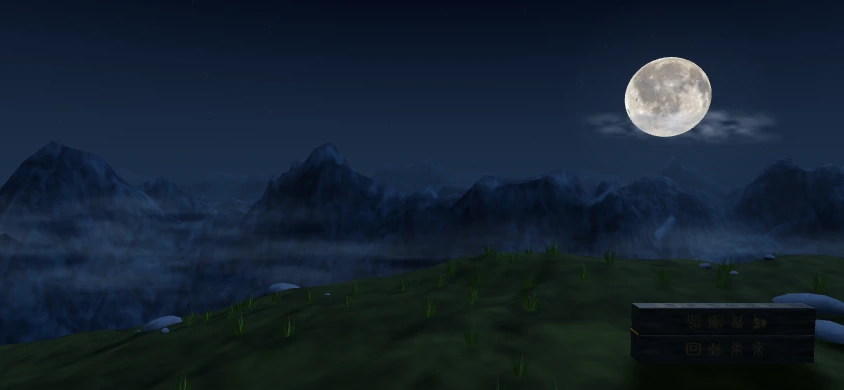
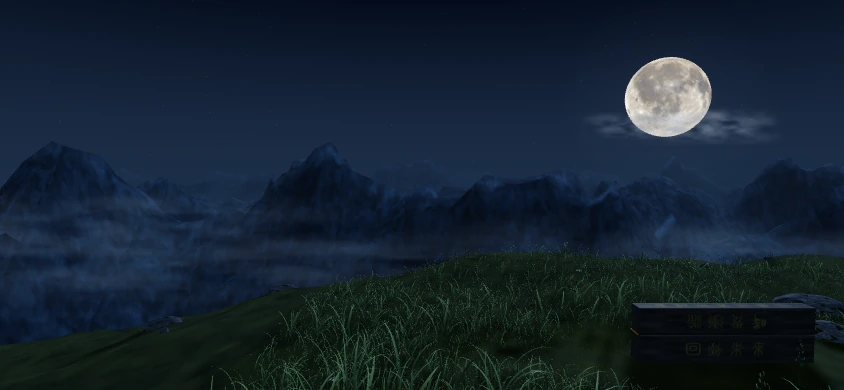
石头特效优化

diff --git a/src/scene/rock-surface.ts b/src/scene/rock-surface.ts
@@ -1,0 +1,143 @@
+import * as THREE from "three";
+import { mergeVertices } from "three/addons/utils/BufferGeometryUtils.js";
+import type { Initialization } from "./initialization";
+import { fbm, noise } from "./terrain-math.ts";
+
+/** 参考风化岩块的宽断面与不规则缺口；仅向旧凸包内部雕刻，保留原有落点和避让范围。 */
+export async function createWeatheredRockGeometry(envelope: THREE.BufferGeometry, init: Initialization) {
+  init.phase = "weathered-rock-geometry";
+  const hull = envelope.index ? envelope.toNonIndexed() : envelope.clone();
+  const hp = hull.attributes.position;
+  const planes: THREE.Plane[] = [];
+  const a = new THREE.Vector3(), b = new THREE.Vector3(), c = new THREE.Vector3();
+  for (let i = 0; i < hp.count; i += 3) {
+    a.fromBufferAttribute(hp, i); b.fromBufferAttribute(hp, i + 1); c.fromBufferAttribute(hp, i + 2);
+    const plane = new THREE.Plane().setFromCoplanarPoints(a, b, c);
+    if (plane.constant > 0) plane.negate();
+    planes.push(plane);
+  }
+  hull.dispose();
+  // 几何生成会主动让出主线程，半成品也提前登记，取消初始化时不会遗留缓冲。
+  const source = init.track(new THREE.IcosahedronGeometry(1, 7));
+  const p = source.attributes.position;
+  const direction = new THREE.Vector3();
+  // 斜切面打破卵石轮廓；底部不额外削薄，原先埋入草坡的接触关系保持稳定。
+  const cuts = [new THREE.Plane(new THREE.Vector3(.32, 1, .17).normalize(), -.76),
+    new THREE.Plane(new THREE.Vector3(1, .16, -.31).normalize(), -.83),
+    new THREE.Plane(new THREE.Vector3(-.42, .4, 1).normalize(), -.81)];
+  const carvingPlanes = [...planes, ...cuts];
+  for (let i = 0; i < p.count; i++) {
+    if (i % 32 === 0) { const pause = init.checkpoint(); if (pause) await pause; }
+    direction.fromBufferAttribute(p, i).normalize();
+    let radius = 1.1;
+    for (const plane of carvingPlanes) {
+      const dot = plane.normal.dot(direction);
+      if (dot > 1e-6) radius = Math.min(radius, -plane.constant / dot);
+    }
+    // 浅层起伏只侵蚀表面，不增加轮廓外伸，也不制造密集尖刺。
+    const wear = (fbm(direction.x * 5.8 + direction.y * 2.1 + 21,
+      direction.z * 5.8 - direction.y * 3.4 + 9) - .25) * .065;
+    radius *= 1 - Math.max(0, wear);
+    p.setXYZ(i, direction.x * radius, direction.y * radius, direction.z * radius);
+  }
+  source.deleteAttribute("normal");
+  source.deleteAttribute("uv");
+  const geometry = mergeVertices(source);
+  init.release(source);
+  geometry.computeVertexNormals();
+  return geometry;
+}
+
+/** 无光照的岩面色素与高度：灰色矿物、破碎浅斑、细裂缝、稀疏暗橄榄苔藓共用一张贴图。 */
+export async function createRockSurface(init: Initialization) {
+  init.phase = "texture-weathered-rock";
+  const size = 512, pixels = new Uint8Array(size * size * 4);
+  for (let y = 0; y < size; y++) {
+    const pause = init.checkpoint(); if (pause) await pause;
+    for (let x = 0; x < size; x++) {
+      // 周期域混合使三向投影重复时首尾相接；高度与颜色分离，浅色矿物不会自动变成凸包。
+      const sample = (scale: number, offset = 0) => {
+        const u = x / (size - 1), v = y / (size - 1);
+        const sx = u * u * (3 - 2 * u), sy = v * v * (3 - 2 * v);
+        const top = noise(u * scale + offset, v * scale + offset) * (1 - sx)
+          + noise((u - 1) * scale + offset, v * scale + offset) * sx;
+        const bottom = noise(u * scale + offset, (v - 1) * scale + offset) * (1 - sx)
+          + noise((u - 1) * scale + offset, (v - 1) * scale + offset) * sx;
+        return top * (1 - sy) + bottom * sy;
+      };
+      const broad = sample(5, 7), medium = sample(22, 29), grain = sample(130, 51);
+      const warp = sample(12, 91);
+      const seam = Math.abs(Math.sin((x / (size - 1) * 6 + y / (size - 1) * 4) * Math.PI
+        + (warp - .5) * 4));
+      const crack = Math.max(0, 1 - seam / .085) * (.35 + medium * .65);
+      const mineral = THREE.MathUtils.smoothstep(medium + (grain - .5) * .38, .53, .72);
+      const moss = THREE.MathUtils.smoothstep(broad - medium * .24, .55, .72);
+      const crystal = THREE.MathUtils.smoothstep(grain, .7, .88);
+      const base = 70 + broad * 30 + medium * 20 + grain * 20 + mineral * 24 + crystal * 40 - crack * 28;
+      const i = (y * size + x) * 4;
+      // 中性灰由实时冷月光染色；苔藓低饱和且较暗，不在夜色中泛亮绿。
+      pixels[i] = THREE.MathUtils.lerp(base * .97, 42 + grain * 18, moss);
+      pixels[i + 1] = THREE.MathUtils.lerp(base, 48 + grain * 20, moss);
+      pixels[i + 2] = THREE.MathUtils.lerp(base * 1.02, 29 + grain * 13, moss);
+      pixels[i + 3] = Math.round(THREE.MathUtils.clamp(.47 + (medium - .5) * .25
+        + (grain - .5) * .25 + crystal * .04 - crack * .22 + moss * .06, 0, 1) * 255);
+    }
+  }
+  const texture = init.track(new THREE.DataTexture(pixels, size, size));
+  texture.colorSpace = THREE.SRGBColorSpace;
+  texture.wrapS = texture.wrapT = THREE.RepeatWrapping;
+  texture.magFilter = THREE.LinearFilter;
+  texture.minFilter = THREE.LinearMipmapLinearFilter;
+  texture.generateMipmaps = true;
+  texture.anisotropy = 4;
+  texture.needsUpdate = true;
+  const material = init.track(new THREE.MeshStandardMaterial({
+    map: texture, bumpMap: texture, bumpScale: .055, roughness: .94, metalness: 0,
+  }));
+  material.name = "weathered-rock";
+  const depth = init.track(new THREE.MeshDepthMaterial({ depthPacking: THREE.RGBADepthPacking }));
+  // 位置哈希提供每块石头独立的纹理偏移与轻微缺损；不消耗布局随机数，响应式切换也不跳变。
+  const vary = `varying vec3 vRockPoint; varying vec3 vRockNormal; varying float vRockSeed; varying float vRockScale;\n`;
+  const deform = `
+    float rockSeed = fract(sin(dot(instanceMatrix[3].xz, vec2(12.9898, 78.233))) * 43758.5453);
+    float rockWear = .055 * rockSeed * pow(max(0.0, dot(normalize(position), normalize(vec3(rockSeed - .5, .7, .4)))), 3.0);
+    transformed *= 1.0 - rockWear;
+  `;
+  const applyShape: THREE.Material["onBeforeCompile"] = shader => {
+    shader.vertexShader = shader.vertexShader.replace("#include <begin_vertex>", `#include <begin_vertex>\n${deform}`);
+  };
+  depth.onBeforeCompile = applyShape;
+  depth.customProgramCacheKey = () => "weathered-rock-depth-v1";
+  material.onBeforeCompile = (shader, renderer) => {
+    applyShape(shader, renderer);
+    shader.vertexShader = vary + shader.vertexShader;
+    shader.vertexShader = shader.vertexShader.replace("#include <project_vertex>", `
+      vRockPoint = transformed;
+      vRockNormal = normal;
+      vRockSeed = rockSeed;
+      vRockScale = length(instanceMatrix[0].xyz);
+      #include <project_vertex>`);
+    shader.fragmentShader = vary + shader.fragmentShader;
+    // 三向混合避免球形 UV 在岩面拉伸与接缝；所有层都交由标准材质接受月光、雾和真实阴影。
+    shader.fragmentShader = shader.fragmentShader.replace("#include <map_fragment>", `
+      vec3 rockWeights = pow(abs(normalize(vRockNormal)), vec3(5.0));
+      rockWeights /= max(dot(rockWeights, vec3(1.0)), .0001);
+      vec3 rockUV = vRockPoint * 1.25 + vec3(vRockSeed * 7.3, vRockSeed * 3.1, vRockSeed * 5.7);
+      vec4 rockSample = texture2D(map, rockUV.yz) * rockWeights.x
+        + texture2D(map, rockUV.xz) * rockWeights.y + texture2D(map, rockUV.xy) * rockWeights.z;
+      diffuseColor.rgb *= rockSample.rgb * mix(.87, 1.08, vRockSeed);
+      float rockHeight = rockSample.a;
+    `);
+    shader.fragmentShader = shader.fragmentShader.replace("#include <normal_fragment_maps>", `
+      // 凹凸深度随实例尺寸缩放，小石子不会因为统一世界尺度的凹凸而变成黑色沟壑。
+      normal = perturbNormalArb(-vViewPosition, normal,
+        vec2(dFdx(rockHeight), dFdy(rockHeight)) * bumpScale * vRockScale * .55, faceDirection);
+    `);
+    shader.fragmentShader = shader.fragmentShader.replace("#include <roughnessmap_fragment>", `
+      #include <roughnessmap_fragment>
+      roughnessFactor = clamp(.86 + rockHeight * .16, .86, 1.0);
+    `);
+  };
+  material.customProgramCacheKey = () => "weathered-rock-triplanar-v1";
+  return { material, depth };
+}

diff --git a/src/scene/terrain.ts b/src/scene/terrain.ts
@@ -10,14 +10,14 @@ import { createMountains } from "./mountains";
 import { obstacleFootprint, overlapsChestScenery, isForegroundRock, isCenterMeadowRock } from "./terrain-clearance";
 import { createMeadow } from "./meadow";
 import { desktopChestPlacement } from "./chest-placement";
+import { createRockSurface, createWeatheredRockGeometry } from "./rock-surface";
 
 /** 连续山坡、山谷和植被共享世界坐标；相机看到的是一整片地形。 */
 export async function createTerrain(init: Initialization) {
   const group = ownTree(init, new THREE.Group());
   const random = seededRandom(842);
   const quality = sceneConfig.quality.desktop;
-  const groundMap = await surfaceTexture("ground", init),
-    rockMap = await surfaceTexture("rock", init);
+  const groundMap = await surfaceTexture("ground", init);
   const earth = init.track(new THREE.MeshStandardMaterial({
     map: groundMap,
     bumpMap: groundMap,
@@ -26,12 +26,7 @@ export async function createTerrain(init: Initialization) {
     roughness: 1,
   }));
   earth.name = "meadow-ground";
-  const stone = init.track(new THREE.MeshStandardMaterial({
-    map: rockMap,
-    bumpMap: rockMap,
-    bumpScale: 0.035,
-    roughness: 0.96,
-  }));
+  const stone = await createRockSurface(init);
   init.phase = "ground";
   const geometry = await createPlane(130, 130, 180, 180, init);
   geometry.rotateX(-Math.PI / 2);
@@ -71,11 +66,13 @@ export async function createTerrain(init: Initialization) {
     sourcePositions.setXYZ(i, x * k, y * k, z * k);
   }
   rockSource.deleteAttribute("normal");
-  const rockGeometry = mergeVertices(rockSource);
+  const placementGeometry = init.track(mergeVertices(rockSource));
   rockSource.dispose();
-  const rp = rockGeometry.attributes.position;
-  rockGeometry.computeVertexNormals();
-  const rocks = new THREE.InstancedMesh(rockGeometry, stone, quality.rocks);
+  // 旧几何仅作为布局包络，避免新轮廓改变筛选结果，导致后续石头和草丛重新洗牌。
+  const rp = placementGeometry.attributes.position;
+  const rockGeometry = init.track(await createWeatheredRockGeometry(placementGeometry, init));
+  const rocks = new THREE.InstancedMesh(rockGeometry, stone.material, quality.rocks);
+  rocks.customDepthMaterial = stone.depth;
   group.add(rocks);
   const dummy = new THREE.Object3D();
   const rockFootprints: ReturnType<typeof obstacleFootprint>[] = [];

diff --git a/src/scene/moonlight.ts b/src/scene/moonlight.ts
@@ -77,6 +77,8 @@ export function preserveLandscapeLight(group: THREE.Object3D) {
     if (!(object instanceof THREE.Mesh)) return;
     for (const material of Array.isArray(object.material) ? object.material : [object.material]) {
       if (!(material instanceof THREE.MeshStandardMaterial) || materials.has(material)) continue;
+      // 新岩面直接接受月球主光，确保断面亮部与落地投影同向；其他景物沿用既有漫反射构图。
+      if (material.name === "weathered-rock") continue;
       materials.add(material);
       // 包装既有编译回调，草叶风动等顶点变形仍沿用原实现。
       const compile = material.onBeforeCompile;
